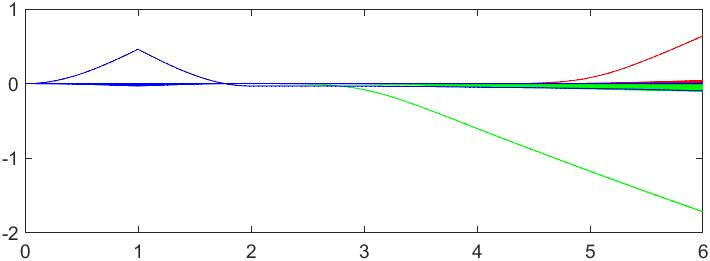
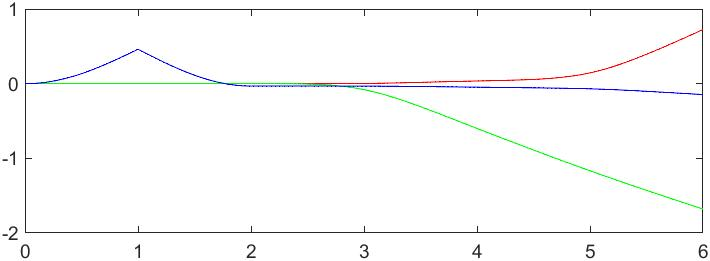
convert to body frame

Changed region(s): [[0.031, 0.1226, 0.9915, 0.3678], [0.8056, 0.613, 0.9915, 0.8276]]

diff --git a/AERSP304_Proj2.m b/AERSP304_Proj2.m
@@ -27,14 +27,11 @@ t = linspace(0,6,1200) ;
 
 ploter(t,d,'1')
 
-
-
 %Question 2
 init = [0,0,0,0,1,0,10*pi/180,0,10*pi/180,0,10*pi/180,0] ;
 t = linspace(0,120,6000) ;
 [t,a] = ode45(@(t,d) Q2fun(t,d,I,[10,0,0,0,0,0,0,0]), t , init);
 [~,rotorSpeeds] = Q2fun(t,d,I,[10,0,0,0,0,0,0,0]) ;
-
 
 ploter(t,a,'2')
 
@@ -46,8 +43,6 @@ plot(rt,rotorSpeeds(:,1),rt,rotorSpeeds(:,2),rt,rotorSpeeds(:,3),rt,rotorSpeeds(
 title('Rotor Speeds???')
 
 function ploter(t,x,Q)
-
-    bodyDCM = eul2rotm([x(:,7),x(:,9),x(:,11)],'ZYX');
 
     figure
     subplot(2,3,1)
@@ -99,32 +94,31 @@ function ploter(t,x,Q)
     exportgraphics(ax,['position' Q '.jpg'])
     
     for i = 1:size(x,1)
-    bx = bodyDCM(1,:)*x(i,2);
-    by = bodyDCM(2,:)*x(i,4);
-    bz = bodyDCM(3,:)*x(i,6);
+        bodyDCM = eul2rotm([x(i,7),x(i,9),x(i,11)],'ZYX');          % converts from the inertial frame to the body frame
+        bx(:,i) = bodyDCM*[x(i,2),x(i,4),x(i,6)]';
     end
     
     figure
     subplot(2,3,1)
-    plot(t,bx,'r')
+    plot(t,bx(1,:),'r')
     title('Vx(t) vs. t');
     xlabel('t');
     ylabel('Vx');
 
     subplot(2,3,2)
-    plot(t,by,'g')
+    plot(t,bx(2,:),'g')
     title('Vy(t) vs. t');
     xlabel('t');
     ylabel('Vy');
 
     subplot(2,3,3)
-    plot(t,bz,'b')
+    plot(t,bx(3,:),'b')
     title('Vz(t) vs. t');
     xlabel('t');
     ylabel('Vz');
     
     subplot(2,3,[4,6])
-    plot(t,bx,'r',t,by,'g',t,bz,'b')
+    plot(t,bx(1,:),'r',t,bx(2,:),'g',t,bx(3,:),'b')
     ax = gca ;
     exportgraphics(ax,['velocity' Q '.jpg'])
     
